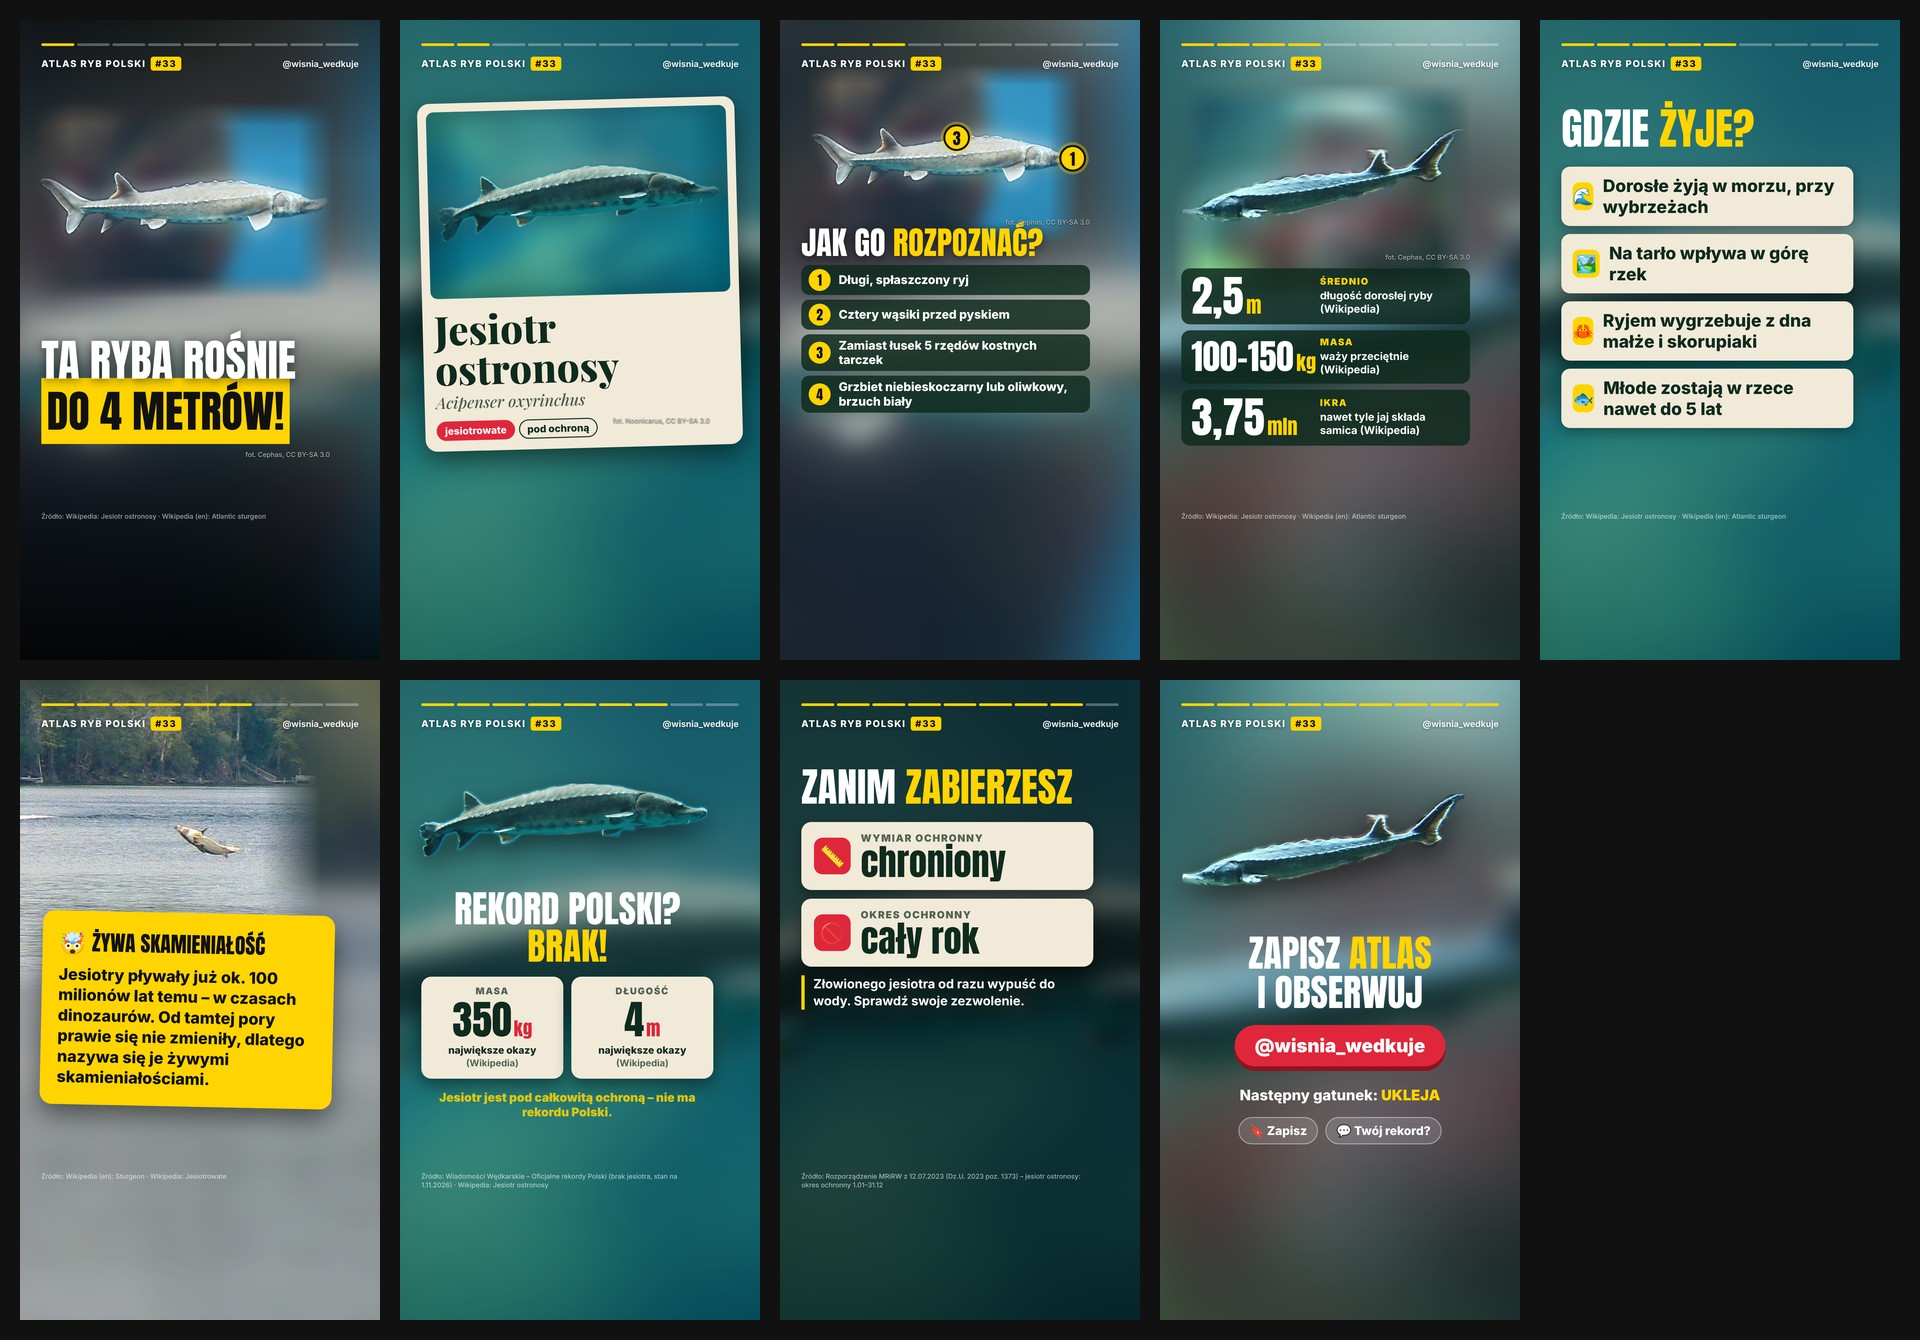
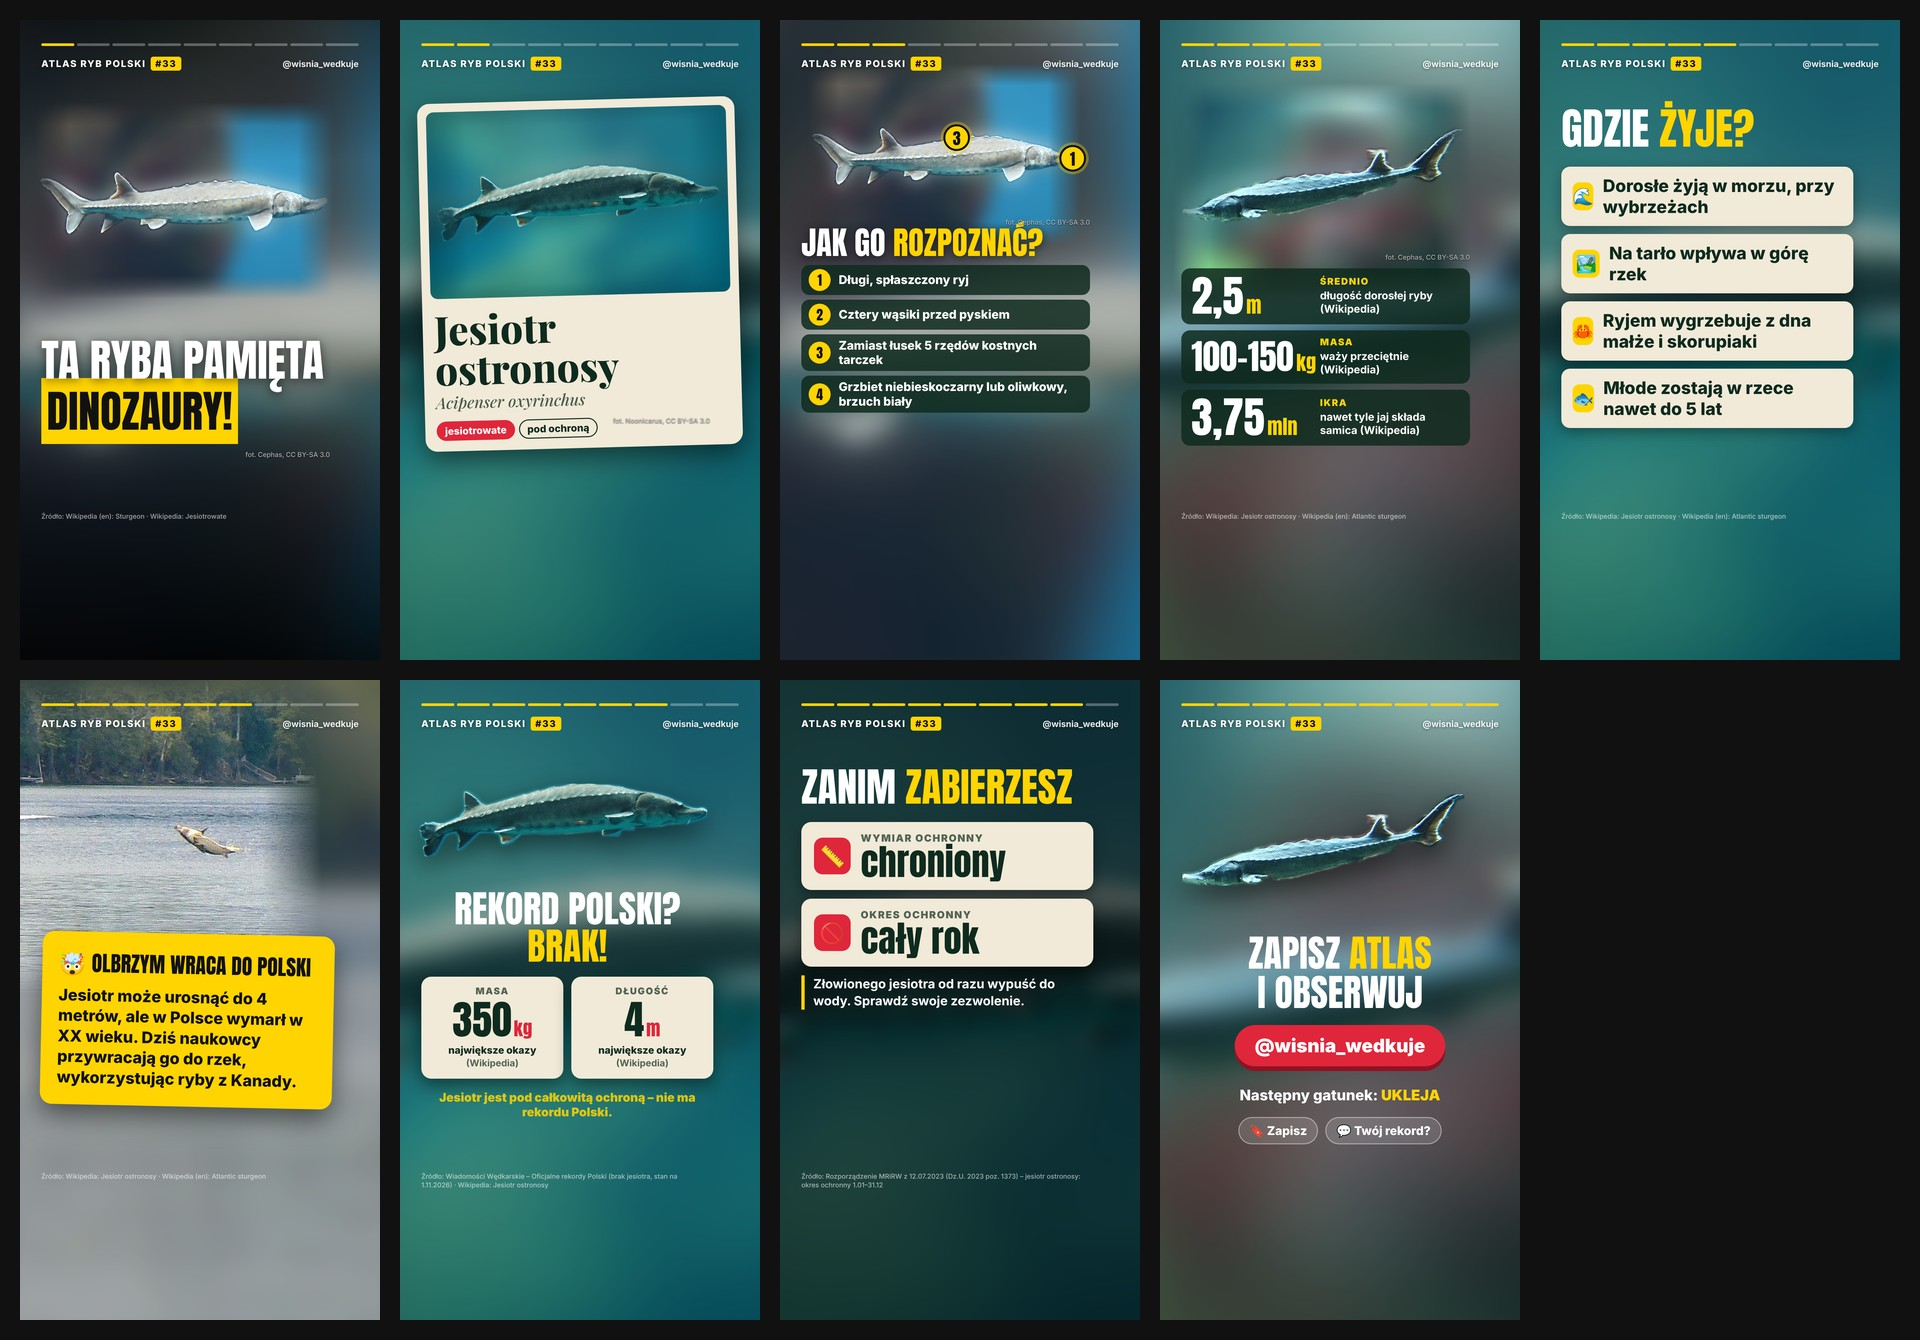
Atlas 33 Jesiotr: zamiana hooka (dinozaury) i ciekawostki (4 m, powrót do Polski)
Claude-Session: https://claude.ai/code/session_01YFDAx1LD8sTfHqEDUSbp2L

Changed region(s): [[0.0, 0.6731, 0.1875, 0.8261], [0.0312, 0.2448, 0.1875, 0.3366]]

diff --git a/atlas/scenariusze/jesiotr.md b/atlas/scenariusze/jesiotr.md
@@ -1,6 +1,7 @@
 # 33 Jesiotr ostronosy (Acipenser oxyrinchus)
 
 ## Hook (ig-reel, ocena wersji angielskiej)
+- **72,1 STRONG „You can still meet a fish from the age of dinosaurs in Polish rivers.” – OSTATECZNY (zamiana hook ↔ ciekawostka na prośbę użytkownika)**; na ekranie „Ta ryba pamięta dinozaury!”. 4 metry i restytucja przeniesione do ciekawostki.
 - **79,5 STRONG „This fish can grow to 4 metres. You can't keep a single one.” – wybrany po uwadze użytkownika** (PL: „Ta ryba może urosnąć nawet do czterech metrów! Ale nie wolno zabrać ani jednej.”).
 - Poprzedni (wcześniej wybrany): - **79,4 STRONG „You'd never guess this 4 metre fish is back in Polish rivers.” – wybrany** (PL: „Ta ryba ma cztery metry i wraca do polskich rzek!”).
 - 80,2 „Never keep this fish. It is protected all year in Poland.” – fakt użyty w scenie przepisów.
